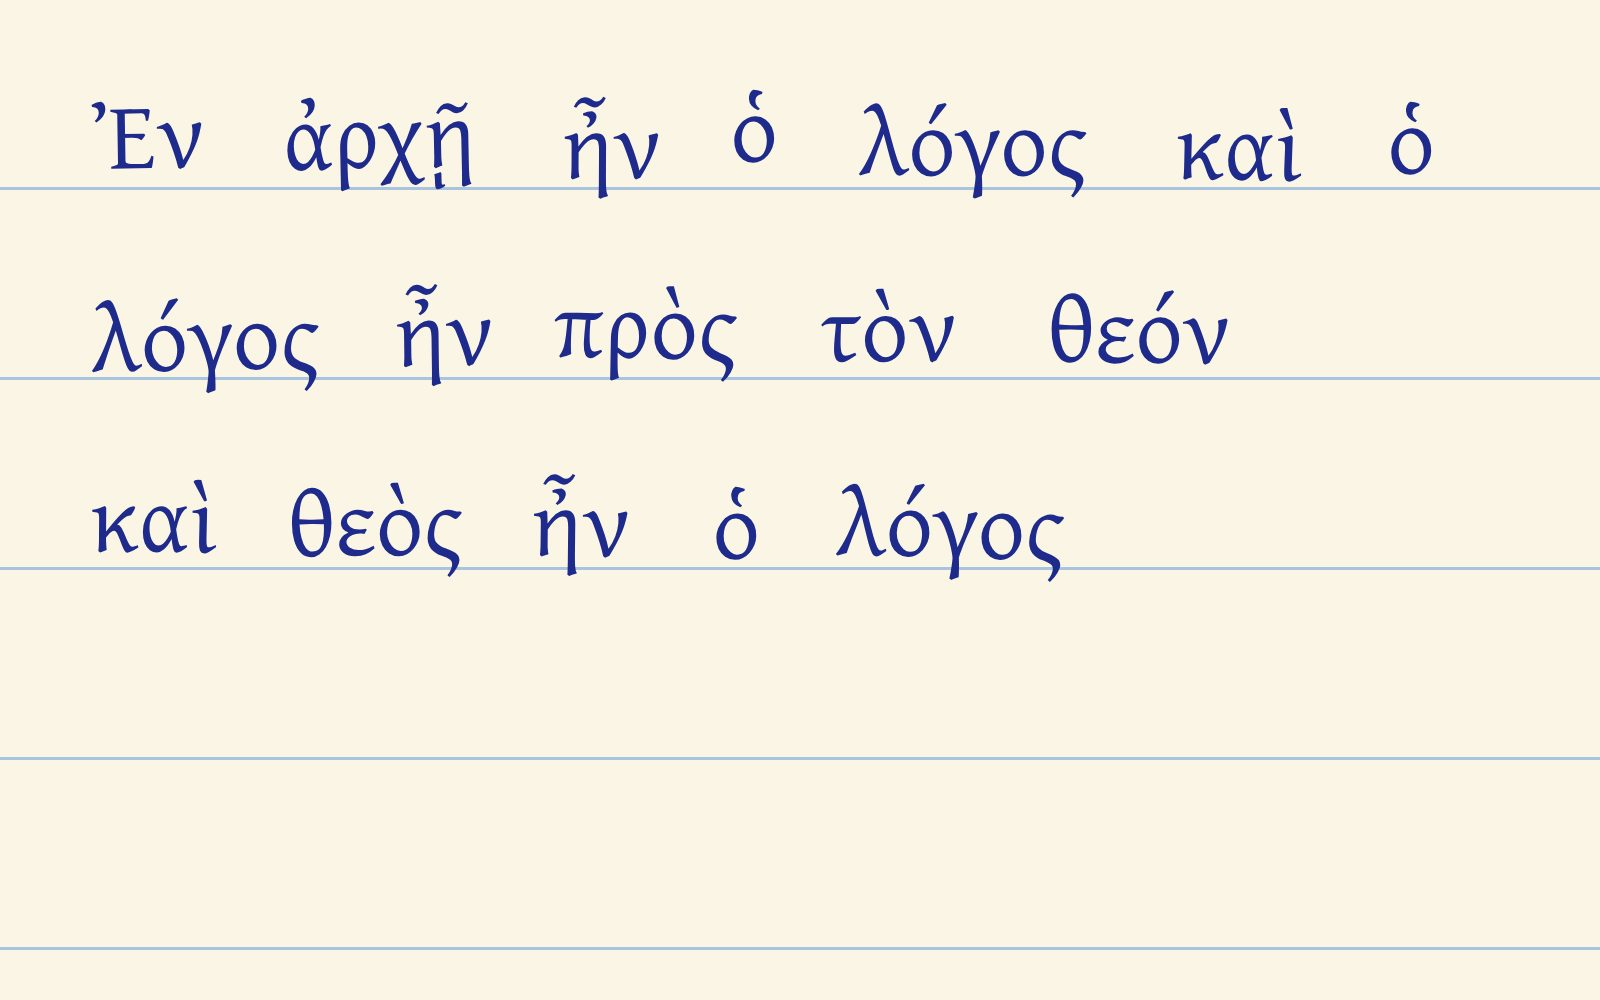
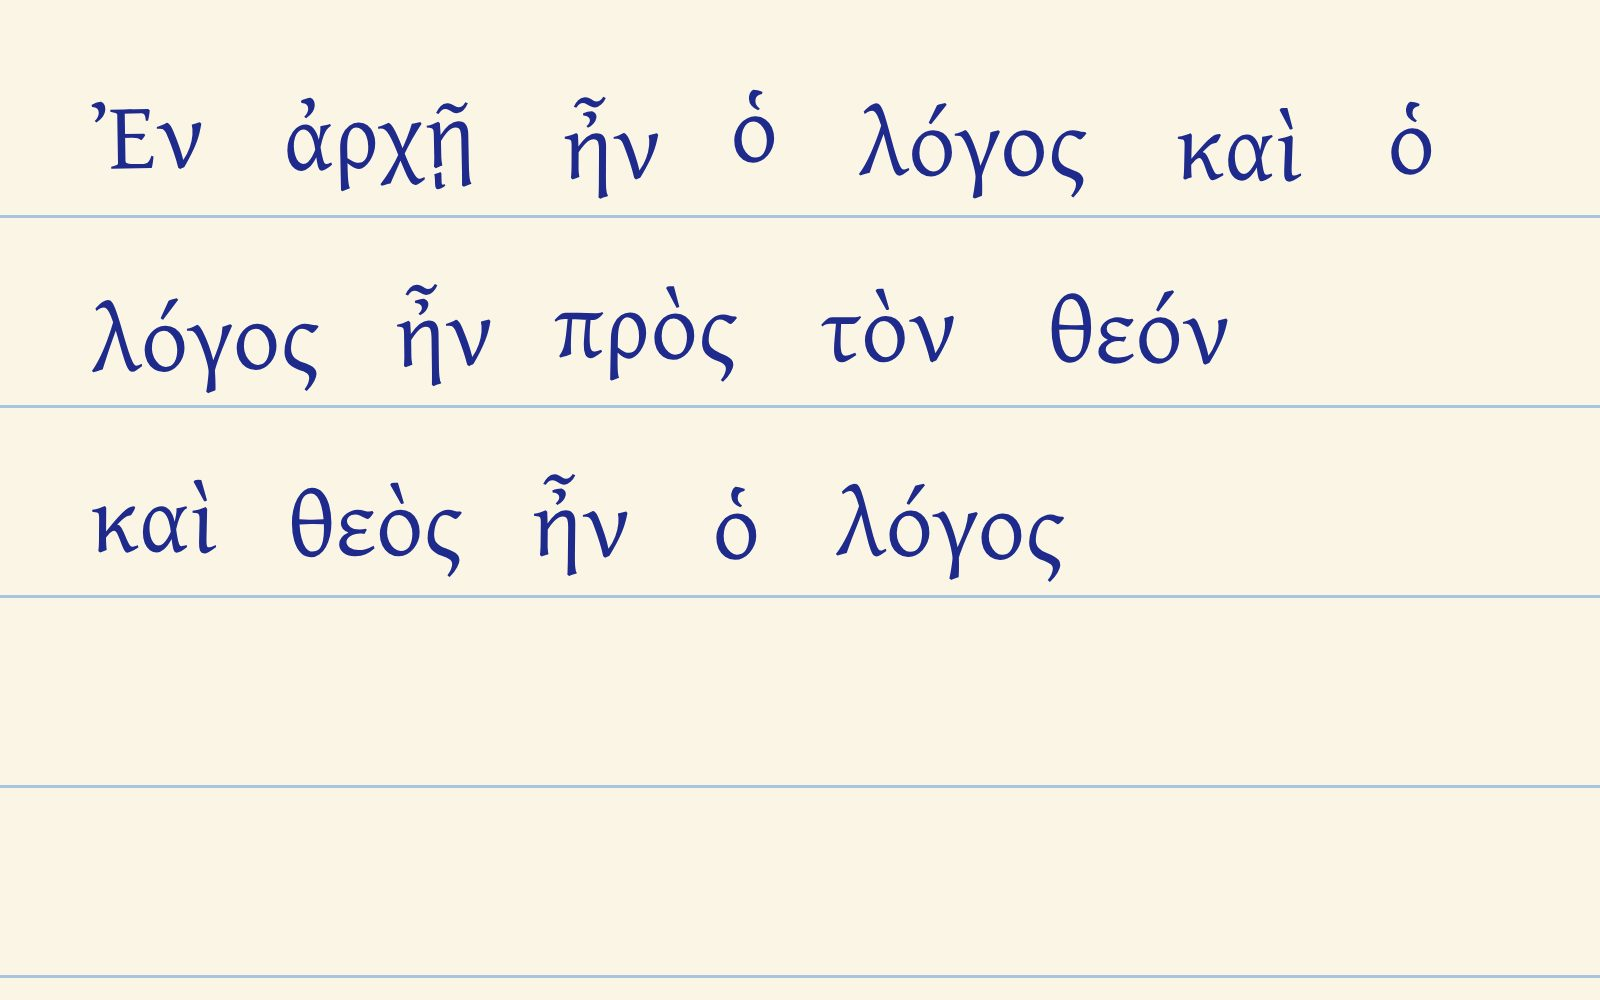
Copywork example pages: rule the paper below the vowel points, not through them

diff --git a/scripts/render-copywork-examples.ts b/scripts/render-copywork-examples.ts
@@ -4,7 +4,7 @@
 //   npx tsx scripts/render-copywork-examples.ts --check  # draw them to a temp dir and fail if one differs from the committed page
 //
 // A page is the example's request.words written out by hand-ish: the repo's own fonts (Literata, Gentium Plus, Noto Serif Hebrew) on
-// ruled paper, each word nudged off the line by a fixed pseudo-random amount, drawn at the width the phone sends (TALK_MAX_EDGE, 1600 px
+// ruled paper (the rule runs below the vowel points, not through them), each word nudged off the line by a fixed pseudo-random amount, drawn at the width the phone sends (TALK_MAX_EDGE, 1600 px
 // on the long edge) with type big enough that a vowel point is a blob of 8 px or more, as it is when a page is photographed to fill the
 // frame. A page that holds a mistake says which in PAGES below (the words are replaced or left out); the example's `expect` holds the rest.
 // Running it twice gives the same bytes.
@@ -83,7 +83,7 @@ export function pageHtml(name: string, words: string[], spec: PageSpec): string 
 ${faces}
 html,body{margin:0;background:#fbf5e6}
 #page{box-sizing:border-box;width:${TALK_MAX_EDGE}px;height:${HEIGHT}px;padding:${TOP}px 90px 0;overflow:hidden;
-  background:repeating-linear-gradient(to bottom,transparent 0,transparent ${LINE - 3}px,#a9c4de ${LINE - 3}px,#a9c4de ${LINE}px);background-position:0 ${TOP - 40}px;
+  background:repeating-linear-gradient(to bottom,transparent 0,transparent ${LINE - 3}px,#a9c4de ${LINE - 3}px,#a9c4de ${LINE}px);background-position:0 ${TOP - 12}px;
   font-family:'${font.family}',serif;font-size:${font.size}px;color:#1e2a8c;line-height:${LINE}px;font-kerning:normal}
 #text{display:block}
 #text span{display:inline-block;white-space:nowrap;line-height:${LINE}px;height:${LINE}px;vertical-align:top}
